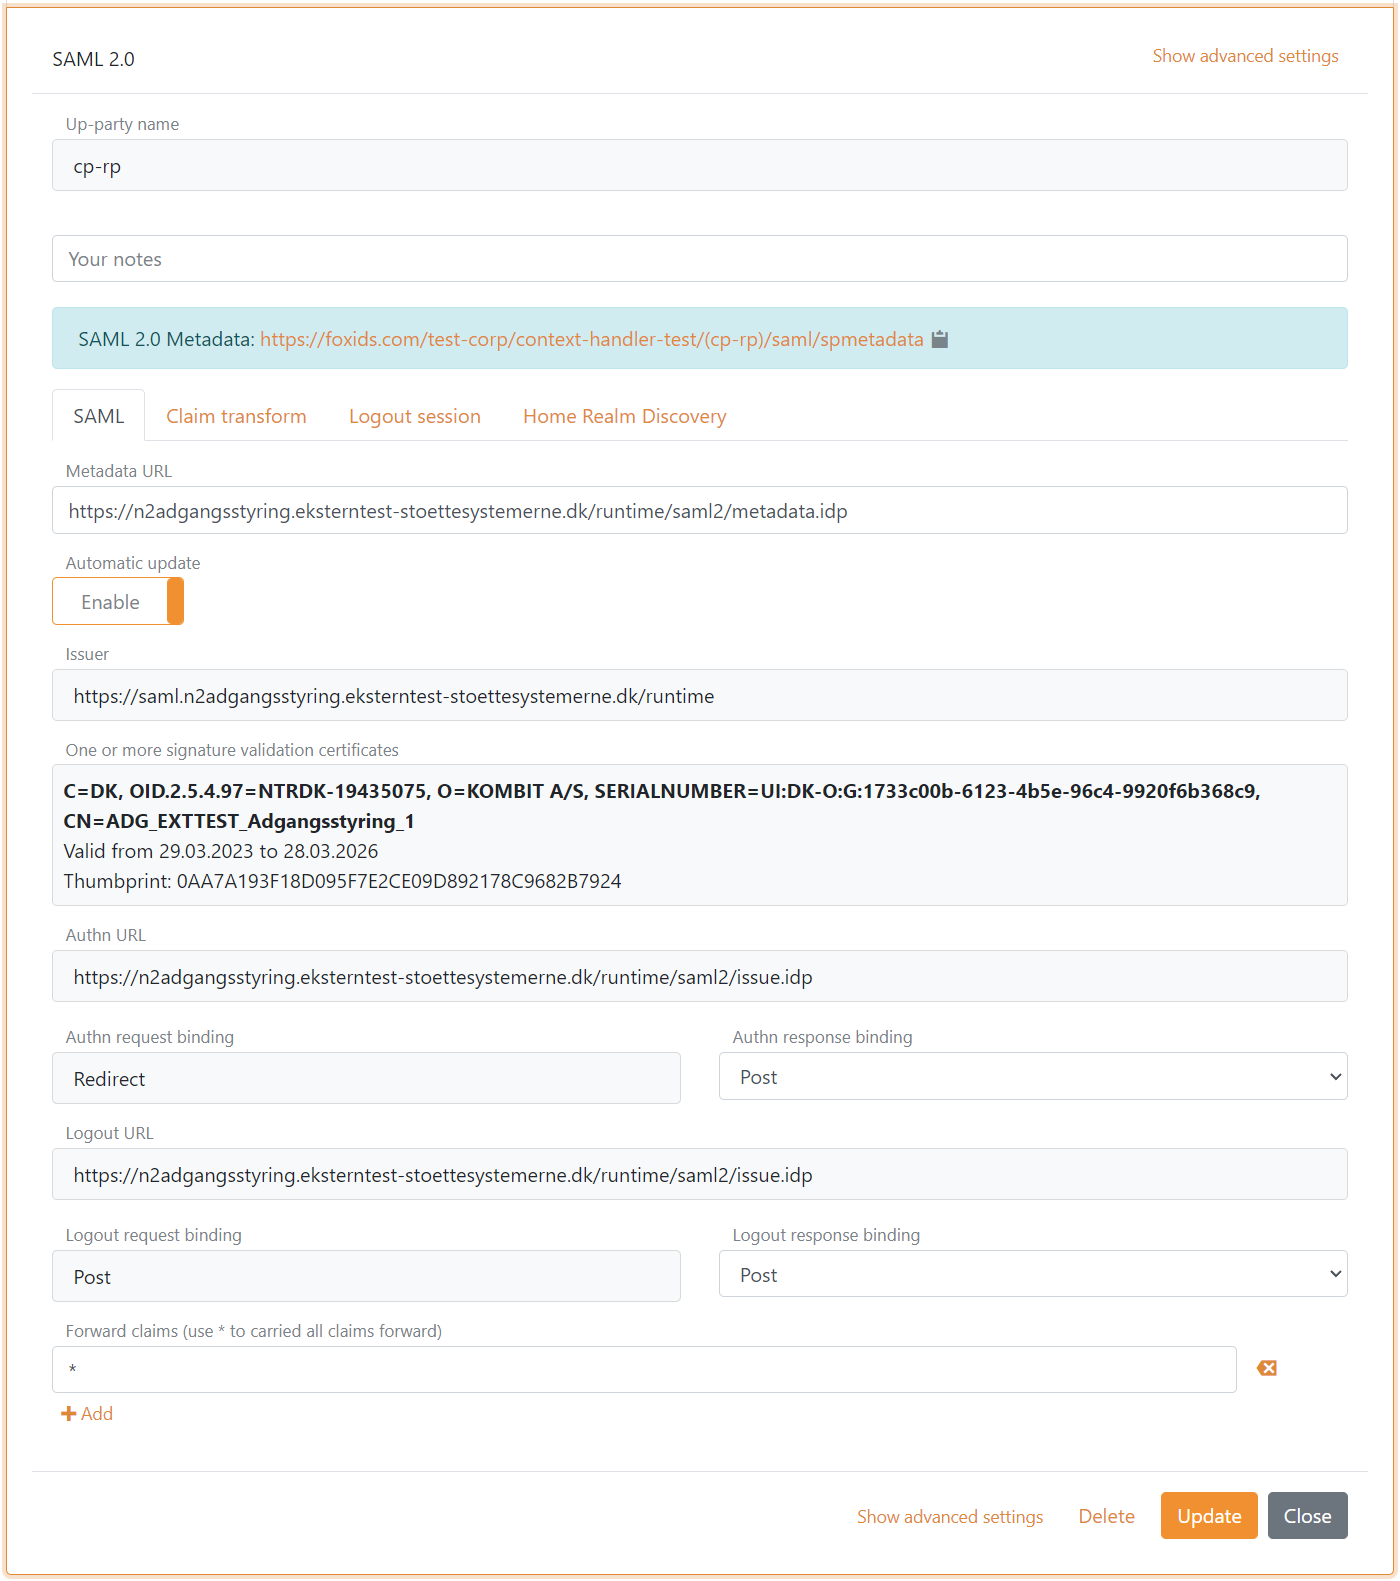
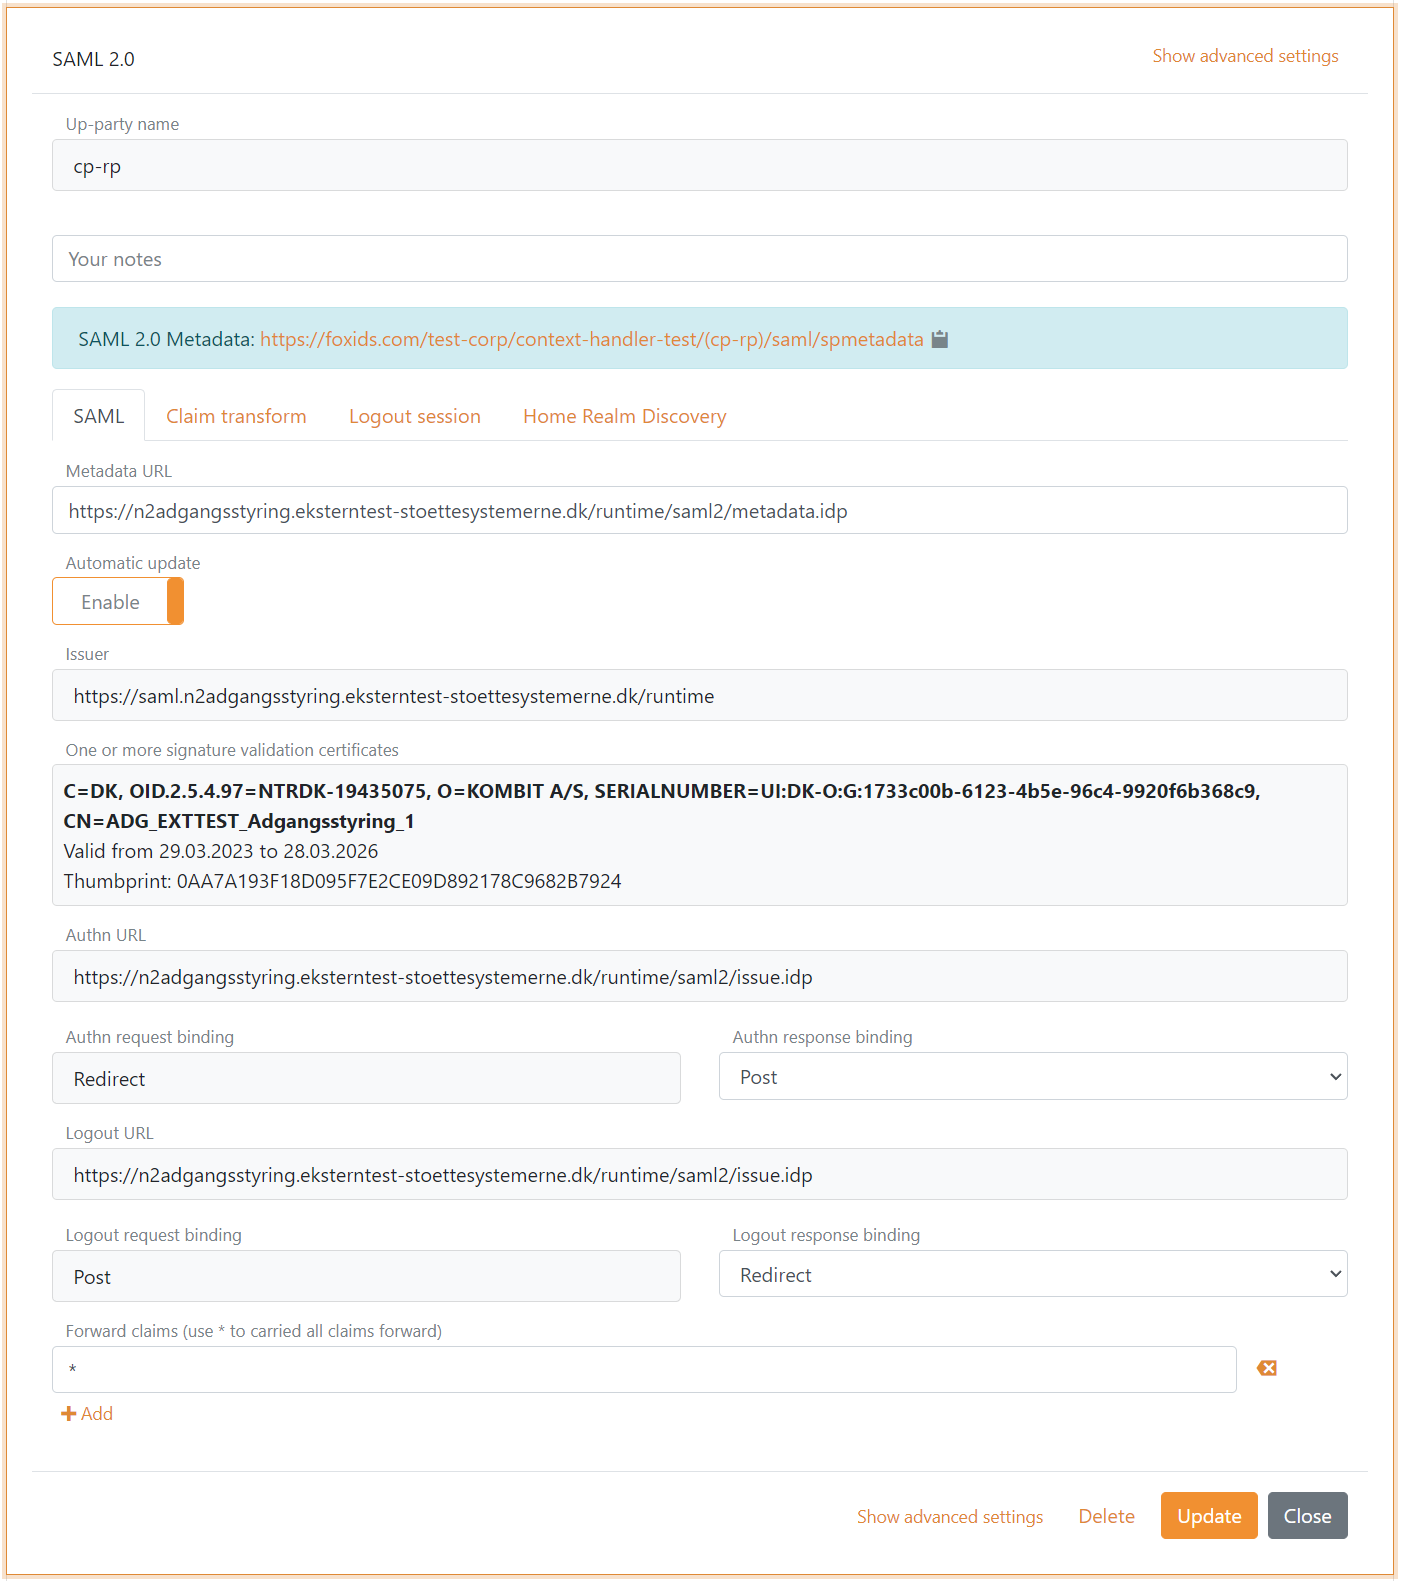
docs  Context Handler

diff --git a/docs/howto-saml-2.0-context-handler.md b/docs/howto-saml-2.0-context-handler.md
@@ -1,6 +1,7 @@
 # Connect to Context Handler with SAML 2.0
 
 FoxIDs can be connected to Context Handler (Danish identity broker, F&aelig;lleskommunal Adgangsstyring) with a [SAML 2.0 up-party](up-party-saml-2.0.md). 
+Context Handler is a Danish identity broker connecting the Danish municipalities in a common federation.  
 Context Handler is connected as a SAML 2.0 [Identity Provider (IdP)](#configuring-context-handler-as-identity-provider).
 
 ![Connect to Context Handler](images/how-to-context-handler.svg)
@@ -9,7 +10,7 @@ In the test environment, FoxIDs can be connected to Context Handler as a test Id
 
 ![Connect to Context Handler RP](images/how-to-context-handler-rp.svg)
 
-Context Handler is a Danish identity broker connected the Danish municipalities in a common federation. Context Handler can be configured based on either OIOSAML 2 or OIOSAML 3 and FoxIDs furthermore support the required certificates and it is possible to support NSIS.
+Context Handler can be configured based on either OIOSAML 2 or OIOSAML 3 and FoxIDs furthermore support the required certificates and it is possible to support NSIS.
 
 > You can test Context Handler login with the [online web app sample](https://aspnetcoreoidcallupsample.itfoxtec.com) ([sample docs](samples.md#aspnetcoreoidcauthcodealluppartiessample)) by clicking `Log in` and then `Danish Context Handler TEST` for the test environment or `Danish Context Handler` for production.  
 > The sample is configured with a separate tracks for the Context Handler SAML 2.0 integration.  
@@ -17,9 +18,9 @@ Context Handler is a Danish identity broker connected the Danish municipalities 
 Context Handler documentation:
 - Context Handler [guide](https://digitaliseringskataloget.dk/l%C3%B8sninger/adgangsstyring-brugere).
 - [Context Handler administration portal](https://serviceplatformen.dk/administration/) 
-- Context Handler [test application with NSIS](https://spwithnsis.eksterntest-stoettesystemerne.dk) and [test application with out NSIS](https://spwithoutnsis.eksterntest-stoettesystemerne.dk)
+- Context Handler [test application](https://spwithnsis.eksterntest-stoettesystemerne.dk)
 
-> Transforms the [DK privilege XML claim](claim-transform-dk-privilege.md) to a JSON claim.
+> Transform the [DK privilege XML claim](claim-transform-dk-privilege.md) to a JSON claim.
 
 ## Separate track
 
@@ -53,7 +54,7 @@ It is subsequently possible to add a secondary certificate and to swap between t
 ## Configuring Context Handler as Identity Provider
 This guide describe how to setup Context Handler as a SAML 2.0 Identity Provider and comply to OIOSAML3.
 
-> You need to [configure the OCES3 certificate](#certificate) before following this configuration.
+> You need to [configure the OCES3 certificate](#certificate) before following this guide.
 
 **1 - Start by creating an SAML 2.0 up-party in [FoxIDs Control Client](control.md#foxids-control-client)**
 
@@ -64,22 +65,21 @@ This guide describe how to setup Context Handler as a SAML 2.0 Identity Provider
    Test metadata: `https://n2adgangsstyring.eksterntest-stoettesystemerne.dk/runtime/saml2/metadata.idp`  
    Production metadata: `https://n2adgangsstyring.stoettesystemerne.dk/runtime/saml2/metadata.idp` 
 5. Click Create
-
-> If you upload the metadata file to Context Handler you may need to temporary change the logout response binding to redirect. Because Context Handler currently has an error where it require a logout redirect binding in metadata even through Context Handler actually subsequently uses the logout post binding.
+6. Change Logout response binding to Redirect
 
 ![Context Handler SAML 2.0 up-party](images/howto-saml-context-handler-up-read-metadata.png)
 
-6. Select show advanced settings
-7. Configure a custom SP issuer, the issuer can optionally start with `https://saml.` The issuer in this example `https://saml.foxids.com/test-corp/context-handler-test/`
-8. Set certificate validation mode to `Chain trust` (if the OCES3 certificate is global trusted) and revocation mode to `Online`
-9. Select to add logout response location URL in metadata
-10. Select to include the encryption certificate in metadata
-11. Set the NameID format in metadata to `urn:oasis:names:tc:SAML:2.0:nameid-format:persistent`
+7. Select Show advanced settings
+8. Configure a custom SP issuer, the issuer can optionally start with `https://saml.` The issuer in this example is `https://saml.foxids.com/test-corp/context-handler-test/`
+9. Set certificate validation mode to `Chain trust` (if the OCES3 certificate is global trusted) and revocation mode to `Online`
+10. Select to add logout response location URL in metadata
+11. Select to include the encryption certificate in metadata
+12. Set the NameID format in metadata to `urn:oasis:names:tc:SAML:2.0:nameid-format:persistent`
 
 ![Context Handler SAML 2.0 up-party](images/howto-saml-context-handler-up-nameidformat.png)
 
-12. Add an attribute consuming service in metadata and add the service name.
-13. Add all the claims you want to receive as requested attributes with the format `urn:oasis:names:tc:SAML:2.0:attrname-format:uri`. Optionally set each attribute as required.
+13. Add an attribute consuming service in metadata and add the service name.
+14. Add all the claims you want to receive as requested attributes with the format `urn:oasis:names:tc:SAML:2.0:attrname-format:uri`. Optionally set each attribute as required.
 
 The following claims is most often used:
 
@@ -95,11 +95,11 @@ The following claims is most often used:
 
 ![Context Handler SAML 2.0 up-party](images/howto-saml-context-handler-up-attributes.png)
 
-14. Add at a administrative contact person
-15. Click Update
-16. Go to the top of the SAML 2.0 up-party
-17. Find the SAML 2.0 up-party SP-metadata URL, in this case https://foxids.com/test-corp/context-handler-test/(cp-rp)/saml/spmetadata. 
-18. The SP-metadata URL is used to configure a Context Handler user system (DK: brugervendt system).
+15. Add at a administrative contact person
+16. Click Update
+17. Go to the top of the SAML 2.0 up-party
+18. Find the SAML 2.0 up-party SP-metadata URL, in this case https://foxids.com/test-corp/context-handler-test/(cp-rp)/saml/spmetadata. 
+19. The SP-metadata URL is used to configure a Context Handler user system (DK: brugervendt system).
  
 **2 - Then go to the [Context Handler administration portal](https://serviceplatformen.dk/administration/)**
 
@@ -107,14 +107,14 @@ The following claims is most often used:
 2. Click Add IT-system (DK: Tilslut it-system)
 3. Fill out the fields and select User system (DK: Brugervendt system)
 4. Go to the User system tab (DK: Brugervendt system)
-5. Select Context Handler with NSIS and remove the selection of Context Handler without NSIS
+5. Select Context Handler with NSIS and remove the selection of Context Handler (without NSIS)
 6. Select OIOSAML3 as OIOSAML profile and NSIS level
-7. Add the SAML 2.0 up-party SP-metadata URL `https://foxids.com/test-corp/context-handler-test/(cp-rp)/saml/spmetadata`.
+7. Add the SAML 2.0 up-party SP-metadata URL, in this case `https://foxids.com/test-corp/context-handler-test/(cp-rp)/saml/spmetadata`.
 8. Fill out the rest, accept the terms and click Save (DK: Gem)
 
  **3 - Add privilege claim transformation in [FoxIDs Control Client](control.md#foxids-control-client)**
 
-FoxIDs can transforms the [DK privilege XML claim](claim-transform-dk-privilege.md) to a JSON claim. It is recommended to add the transformation in order to obtain smaller claims and tokens.
+FoxIDs can transform the [DK privilege XML claim](claim-transform-dk-privilege.md) to a JSON claim. It is recommended to add the transformation in order to obtain smaller claims and tokens.
 Furthermore, it makes the tokens readable.
 
 1. Select the Claim transform tab
@@ -130,10 +130,10 @@ Furthermore, it makes the tokens readable.
 
  **4 - Add SAML 2.0 claim to JWT claim mappings in [FoxIDs Control Client](control.md#foxids-control-client)**
 
- FoxIDs internally converts SAML 2.0 clams to JWT claims. Context Handler use a OIOSAML3 defined set of SAML 2.0 claims where corresponding JWT mappings need to be added.
+ FoxIDs internally converts SAML 2.0 clams to JWT claims. Context Handler use a OIOSAML3 defined set of SAML 2.0 claims where corresponding JWT mappings need to be added in the track.
 
  1. Go to Settings tab and Claim mappings
- 2. Add mappings for all the claims configured in step 1.13, you can create you own short JWT claim names if no standard name exists
+ 2. Add mappings for all the claims configured in step 1.14, you can create you own short JWT claim names if no standard name exists
  3. Click update
 
  ![Context Handler SAML 2.0 claim mappings](images/howto-saml-claim-mappings.png)
@@ -147,9 +147,7 @@ You are done. The SAML 2.0 up-party can now be used as an up-party for down-part
 
 This guide describe how to setup Context Handler as a SAML 2.0 test Relying Party and comply to OIOSAML3.
 
-This guide is for Context Handler and use OIOSAML2.
-
-> You need to use a [separate track](#separate-track) to have a place for the test users and to [configure the OCES3 certificate](#certificate) before following this configuration.
+> You need to use a [separate track](#separate-track) to have a place for the test users and to [configure the OCES3 certificate](#certificate) before following this guide.
 
 **1 - Start by creating an SAML 2.0 down-party in [FoxIDs Control Client](control.md#foxids-control-client)**
 
@@ -159,7 +157,7 @@ This guide is for Context Handler and use OIOSAML2.
 4. Click Add allow up-party and click login, to let the user login with test users in the track
 5. Download the Context Handler RP metadata where you can find endpoints and the certificate to trust.  
    Test metadata: `https://n2adgangsstyring.eksterntest-stoettesystemerne.dk/runtime/saml2auth/metadata.idp`  
-   The certificate is base64 and can be converted into a certificate .cer file with [FoxIDs certificate tool](https://www.foxids.com/tools/Certificate). 
+   The certificate is base64 encoded and can be converted into a certificate .cer file with the [FoxIDs certificate tool](https://www.foxids.com/tools/Certificate). 
 6. Add the issuer and endpoints from the metadata
 7. Set the bindings to redirect with the exception of the Authn response binding which is set to post
 8. Set the OIOSAML3 claims which should be issued to Context Handler
@@ -177,12 +175,12 @@ The following claims is most often used:
 
 ![Context Handler SAML 2.0 down-party](images/howto-saml-context-handler-down-base-config.png)
 
-11. Select show advanced settings
+11. Select Show advanced settings
 12. Select Encrypt authn response
 13. Add the certificate from the metadata as a optional encryption certificate
 
 12. Set certificate validation mode to `Chain trust` (if the OCES3 certificate is global trusted) and revocation mode to `Online`
-13. Configure a custom IdP issuer, the issuer is required to start with `https://saml.` The issuer in this example `https://saml.foxids.com/test-corp/context-handler-test-idp/`.
+13. Configure a custom IdP issuer, the issuer can optionally start with `https://saml.` The issuer in this example `https://saml.foxids.com/test-corp/context-handler-test-idp/`.
 14. Select to add logout response location URL in metadata
 15. Select to include the encryption certificate in metadata
 16. Set the NameID format in metadata to `urn:oasis:names:tc:SAML:1.1:nameid-format:X509SubjectName`
@@ -196,11 +194,14 @@ The following claims is most often used:
 1. Select IT-systems (DK: IT-systemer) 
 2. Click Add IT-system (DK: Tilslut it-system)
 3. Fill out the fields and select Identity Provider
-4. Add the SAML 2.0 down-party IdP-metadata in the Identity Provider tab.
-5. Fill out the rest, accept the terms and click Save (DK: Gem)
+4. Go to the Identity Provider tab
+5. Select Context Handler with NSIS and remove the selection of Context Handler (without NSIS)
+6. Select OIOSAML3 as OIOSAML profile and NSIS level
+7. Add the SAML 2.0 down-party IdP-metadata URL, in this case `https://localhost:44330/testcorp/test-contexthandler-idp/ch-idp(*)/saml/idpmetadata`.
+8. Fill out the rest, accept the terms and click Save (DK: Gem)
 
-> Additionally, a federation agreement (DK: f&oslash;derationsaftaler) is required to enable the identity provider in Context Handler.  
-> You are required to be registered as your own test authority (DK: egen test myndighed) in the test environment to add a federation agreement.
+> You are required to be registered as your own test authority (DK: egen test myndighed) in the test environment to add a federation agreement. 
+> A federation agreement (DK: f&oslash;derationsaftaler) is required to enable the identity provider in Context Handler. 
 
  **3 - Add claim transformation in [FoxIDs Control Client](control.md#foxids-control-client)**
 
@@ -219,14 +220,16 @@ Create the claims which has to be issued to Context Handler in claim transforms.
 
  **4 - Add SAML 2.0 claim to JWT claim mappings in [FoxIDs Control Client](control.md#foxids-control-client)**
 
- FoxIDs internally converts SAML 2.0 clams to JWT claims. Context Handler use a OIOSAML 2 or OIOSAML 3 defined set of SAML 2.0 claims where corresponding JWT mappings need to be added.
+ FoxIDs internally converts SAML 2.0 clams to JWT claims. Context Handler use a OIOSAML3 defined set of SAML 2.0 claims where corresponding JWT mappings need to be added in the track.
 
  1. Go to Settings tab and Claim mappings
- 2. Add mappings for all the claims configured in step 1.7, you can create you own short JWT claim names if no standard name exists
+ 2. Add mappings for all the claims configured in step 1.8, you can create you own short JWT claim names if no standard name exists - please see step 4 in section [Configuring Context Handler as Identity Provider](#configuring-context-handler-as-identity-provider)
  3. Click update
 
 **5 - Optionally add users in [FoxIDs Control Client](control.md#foxids-control-client)**
 
-You can add uses in the FoxIDs track and add claims to each user.
+You can add uses in the FoxIDs test track and add claims to each user.
 
 E.g. a claim with a CVR claim, given name, family name and a base64 encoded [DK privilege XML](claim-transform-dk-privilege.md) string.
+
+![Test user 1](images/howto-saml-context-handler-test-user1.png)

diff --git a/docs/up-party-howto-saml-2.0-nemlogin.md b/docs/up-party-howto-saml-2.0-nemlogin.md
@@ -56,7 +56,7 @@ It is subsequently possible to add a secondary certificate and to swap between t
 
 ## Configuring NemLog-in 3 as Identity Provider (IdP)
 
-> You need to [configure the OCES3 certificate](#certificate) before following this configuration.
+> You need to [configure the OCES3 certificate](#certificate) before following this guide.
 
 **1) - Start by creating an SAML 2.0 up-party in [FoxIDs Control Client](control.md#foxids-control-client)**
 
@@ -128,7 +128,7 @@ First you need to create an NemLog-in IT-system or have someone else creating an
 
 *Optionally, if you are using the privilege claim.*
 
-FoxIDs can transforms the [DK privilege XML claim](claim-transform-dk-privilege.md) to a JSON claim. It is recommended to add the transformation in order to obtain smaller claims and tokens. 
+FoxIDs can transform the [DK privilege XML claim](claim-transform-dk-privilege.md) to a JSON claim. It is recommended to add the transformation in order to obtain smaller claims and tokens. 
 Furthermore, it makes the tokens readable.
 
 1. Add the DK privilege claim transformer. 

diff --git a/docs/control.md b/docs/control.md
@@ -6,6 +6,8 @@ FoxIDs Control API contain all the configuration functionality. Therefore, it is
 ## FoxIDs Control Client
 FoxIDs Control Client is a Blazor WebAssembly (WASM) app.
 
+> Open your [FoxIDs Control Client on FoxIDs.com](https://www.foxids.com/action/login). 
+
 ### Tenant and master track
 If you use FoxIDs at [FoxIDs.com](https://foxids.com). Your one tenant will be pre created on registration.
 
